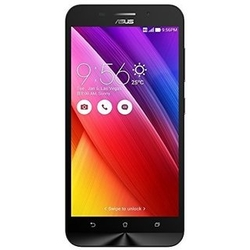
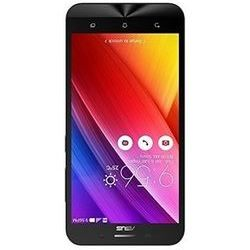
rotating with js

diff --git a/frontend/web/js/myjs.js b/frontend/web/js/myjs.js
@@ -1,0 +1,28 @@
+jQuery(document).ready(function () {
+	
+
+//Показать подкатегории
+	$(document).on('click', '.rotate', function () {
+		
+        
+		var picture_id = $(this).data('picture');
+
+		
+
+      $.ajax({
+          type: "POST",
+          url: '/picture/ajax-rotate',
+			cache: false,
+			data: {picture_id:picture_id},
+			dataType: 'html',
+			success: function(data){
+			location.reload();
+			
+              }
+            });
+
+					 
+    });
+  
+
+});

diff --git a/frontend/controllers/PictureController.php b/frontend/controllers/PictureController.php
@@ -159,7 +159,7 @@ class PictureController extends Controller
      * @param integer $id
      * @return mixed
      */
-    public function actionDelete($id)
+    public function actionDelete($id,$action=false)
     {
 		if (!Yii::$app->user->can('picture')) {
 			   throw new ForbiddenHttpException('You do not have permission to manage pictures! Please, register first.');
@@ -180,10 +180,14 @@ class PictureController extends Controller
 		    
 		$model->delete();
 
+		if($action=='create'){
+			 return $this->redirect(['create']);
+		}
+		
         return $this->redirect(['index']);
     }
 
-	 public function actionRotate($id,$action=false)
+	 public function actionRotate($id)
     {
 		if (!Yii::$app->user->can('picture')) {
 			   throw new ForbiddenHttpException('You do not have permission to manage pictures! Please, register first.');
@@ -209,19 +213,7 @@ class PictureController extends Controller
 		$model = Picture::find()->all();
 		 
 	
-		if($action=="create"){
-			return $this->redirect(['create', 
-				'model' => $model,
-				'pictures' => $pictures,
-				]);
-		}
-		else if($action=="update"){
-			$model = $this->findModel($id);
-			
-				 return $this->redirect(['update', 'id' => $model->id, 
-				 'model' => $model,
-				'pictures' => $pictures,]);
-		}
+		
 	
 			 return $this->redirect(['index', 
 					'searchModel' => $searchModel,
@@ -231,6 +223,32 @@ class PictureController extends Controller
 		 
 		
 			
+    }
+	
+	 public function actionAjaxRotate()
+    {
+		 if (Yii::$app->request->isAjax) {
+            $data = Yii::$app->request->post();
+            $picture_id= explode(":", $data['picture_id']);
+            $picture_id= $picture_id[0];
+			
+		
+			 $model = $this->findModel($picture_id);
+			$pictures = Picture::find()->all();
+			
+			$image = Image::getImagine();
+			$newImage = $image->open(Yii::getAlias(\Yii::$app->basePath.'/web/'.$model->image_link));
+			 
+			$newImage->rotate(-90);
+			 
+			$newImage->save(Yii::getAlias(\Yii::$app->basePath.'/web/'.$model->image_link), ['quality' => 80]);
+		
+			 return $this->renderAjax('_show_pictures', [
+                'model' => $model,
+				'pictures' => $pictures,
+
+            ]);
+		 }
     }
 	
 	

diff --git a/frontend/views/picture/_show_pictures.php b/frontend/views/picture/_show_pictures.php
@@ -7,28 +7,10 @@ use yii\widgets\ActiveForm;
 /* @var $this yii\web\View */
 /* @var $model common\models\Picture */
 /* @var $form yii\widgets\ActiveForm */
-if($model->isNewRecord){
-	$action="create";
-}
-else{
-	$action="update";
-}
+
 ?>
 
-<div class="picture-form">
 
-      <?php $form = ActiveForm::begin(['options' => ['enctype' => 'multipart/form-data']]); ?>
-
-   
-		   <?= $form->field($model, 'uploadedImage')->fileInput(['accept' => 'image/*']) ?>
-
-   
-
-    <div class="form-group">
-        <?= Html::submitButton($model->isNewRecord ? 'Create' : 'Update', ['class' => $model->isNewRecord ? 'btn btn-success' : 'btn btn-primary']) ?>
-    </div>
-	
-<div class="ajax_rotate">	
 	 <table class="table">
 		
 		<tbody>
@@ -38,10 +20,11 @@ else{
 		  <tr>
 			<td><?php echo Html::img('@web/'.$picture->image_link, ["alt"=>"pic"]) ?></td>
 			<td> 
-				<span class="btn btn-primary rotate" data-picture =<?= $picture->id ?>>Rotate </span>
+			<?php // Html::a('Rotate', ['rotate', 'id' => $picture->id , 'action'=>$action], ['class' => 'btn btn-primary rotate','data-picture'=>$picture->id]) ?>
+			<span class="btn btn-primary rotate" data-picture =<?= $picture->id ?>>Rotate </span>
 			</td>
 			<td> 
-				<?= Html::a('Delete', ['delete', 'id' => $picture->id, 'action'=>$action], [
+				<?= Html::a('Delete', ['delete', 'id' => $picture->id], [
 				'class' => 'btn btn-danger',
 				'data' => [
 					'confirm' => 'Are you sure you want to delete this item?',
@@ -64,8 +47,3 @@ else{
 		 <?php endif; ?> 
 		</tbody>
 	</table>
-</div>	
-
-    <?php ActiveForm::end(); ?>
-
-</div>

diff --git a/frontend/assets/AppAsset.php b/frontend/assets/AppAsset.php
@@ -15,6 +15,7 @@ class AppAsset extends AssetBundle
         'css/site.css',
     ];
     public $js = [
+		'js/myjs.js',
     ];
     public $depends = [
         'yii\web\YiiAsset',
